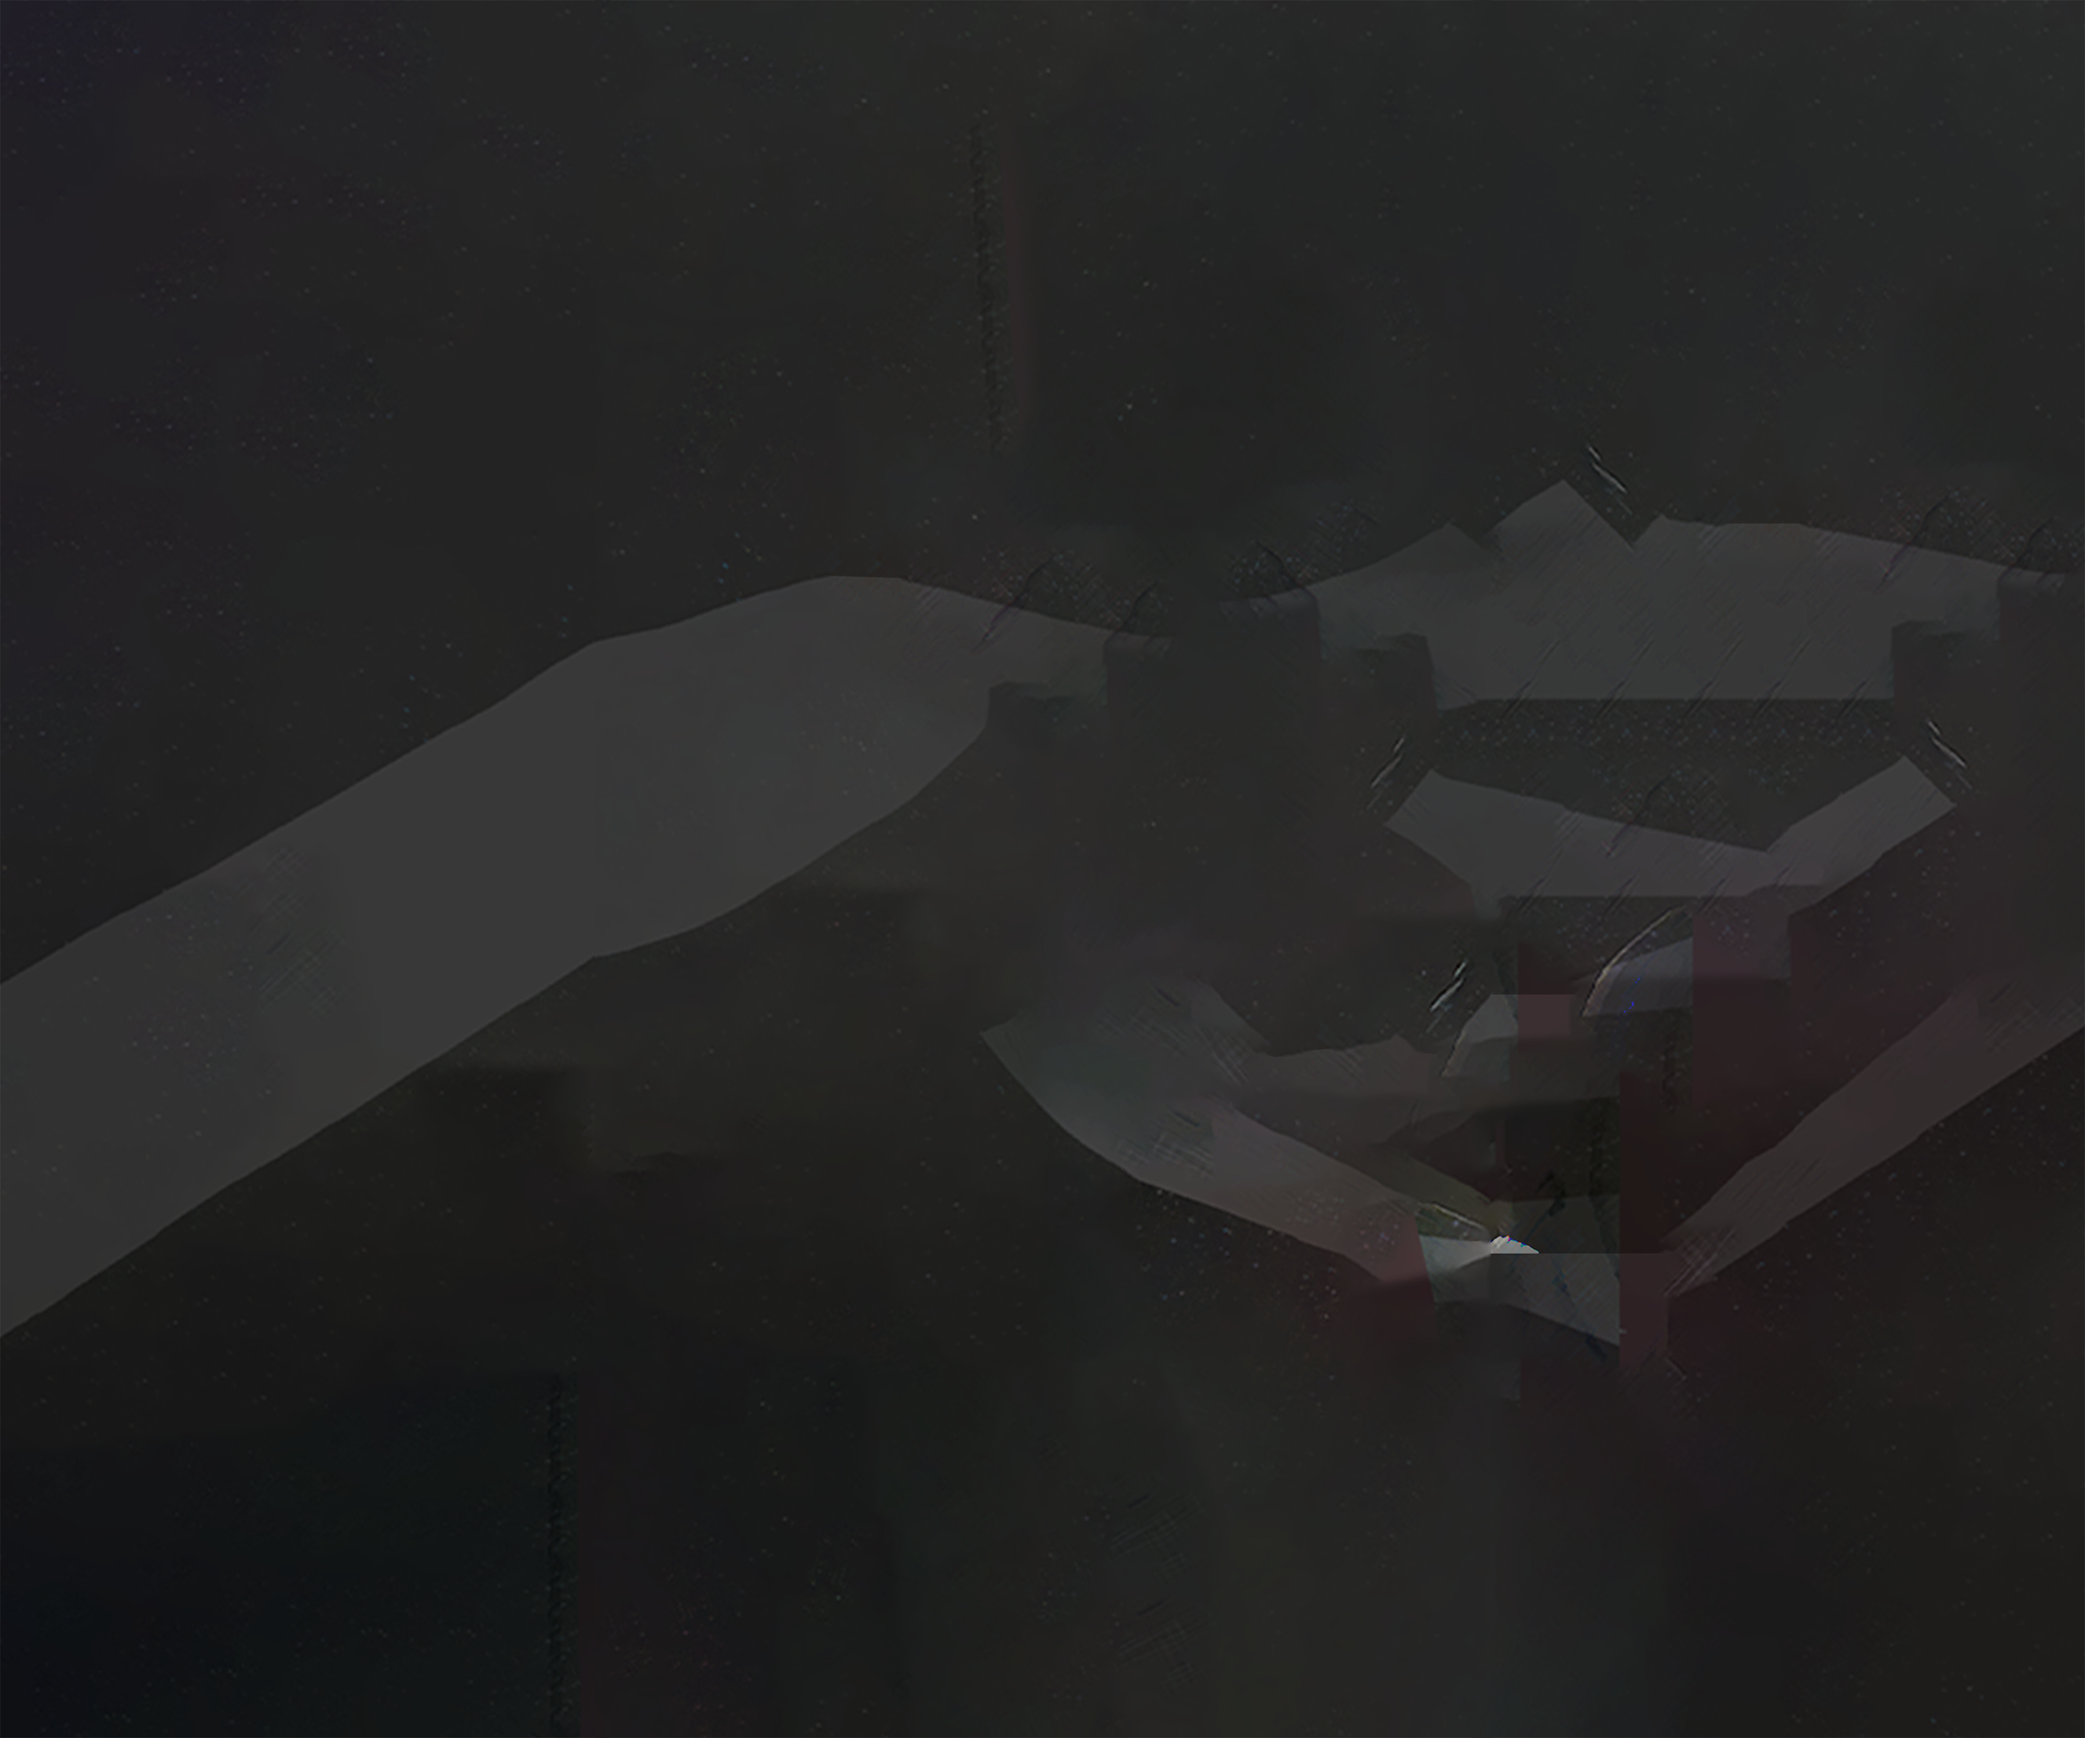
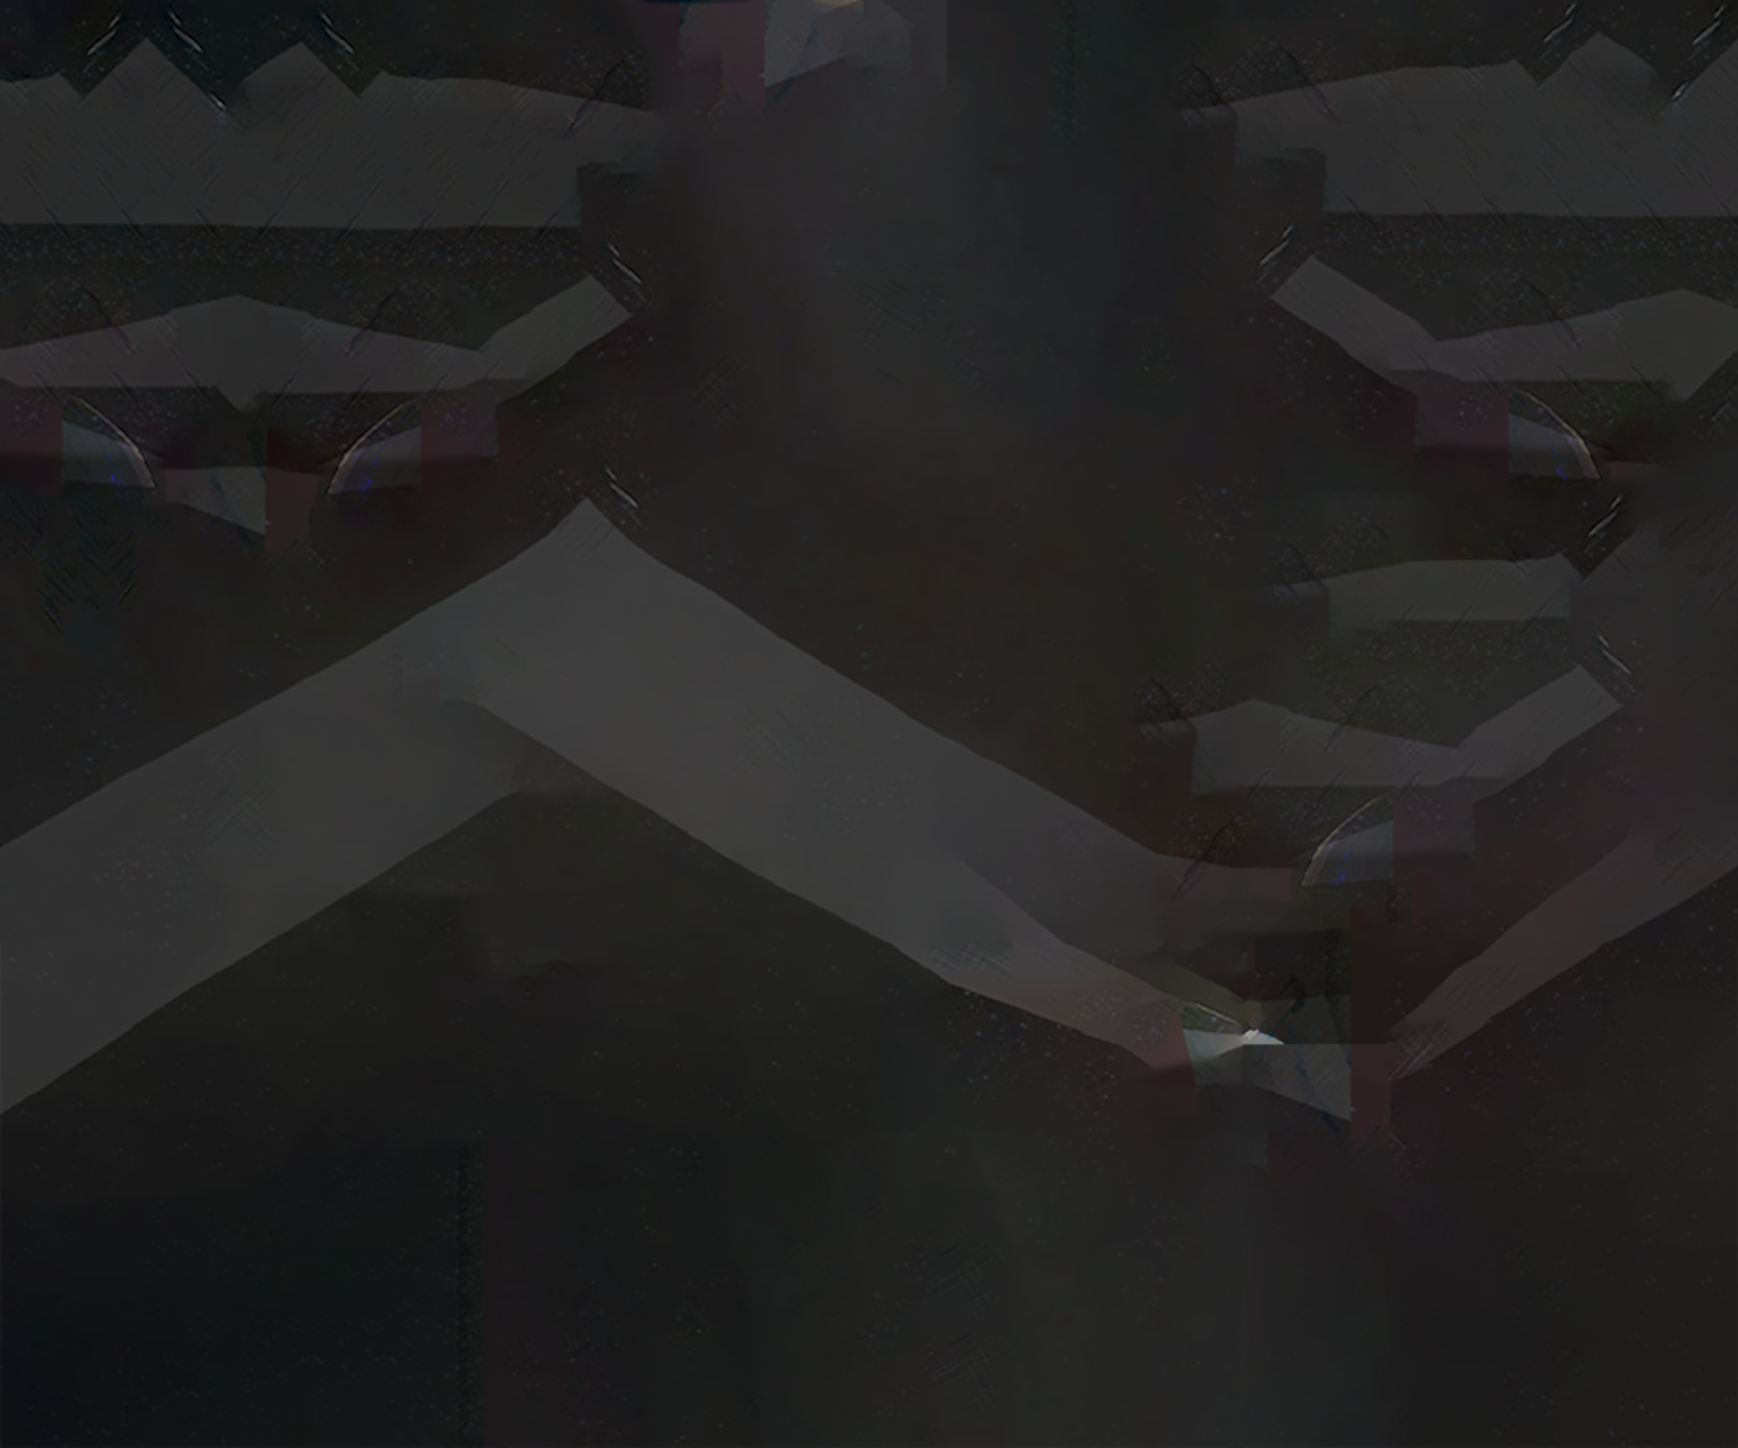
Added new Screen Merge for Mediu/Small Screen [Page1 to Page2]

diff --git a/wwwroot/css/style.css b/wwwroot/css/style.css
@@ -388,12 +388,7 @@ ul > .li-options > a:hover {
 
         /* ======= TELA SMALL B ======= */
 @media (min-width: 500px) and (max-width: 768px) {
-
-    #mainscreen {
-        height: 92vh;
-        margin-top: 8vh;
-    }
-
+      
     .foto {
         height: 100%;
     }
@@ -817,3 +812,7 @@ navButton {
 
 /*fixing Presentation Height*/
 /*#smallAscreen,#smallBscreen*/
+
+
+/*Forçar as imagens terem 100% de height e width proporcional.
+    [Mesmo quebrando (Depende da Tela)] */
